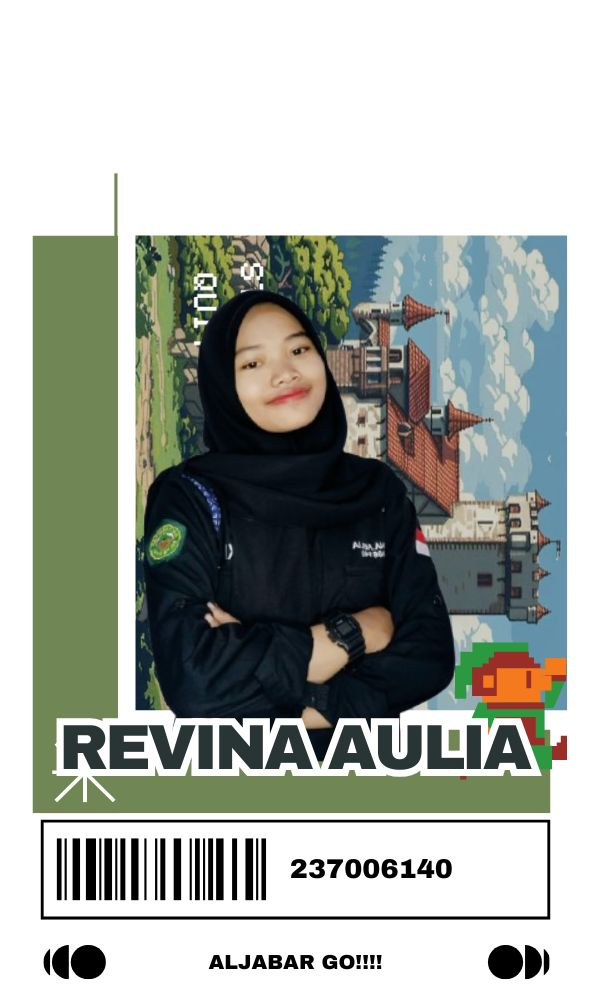
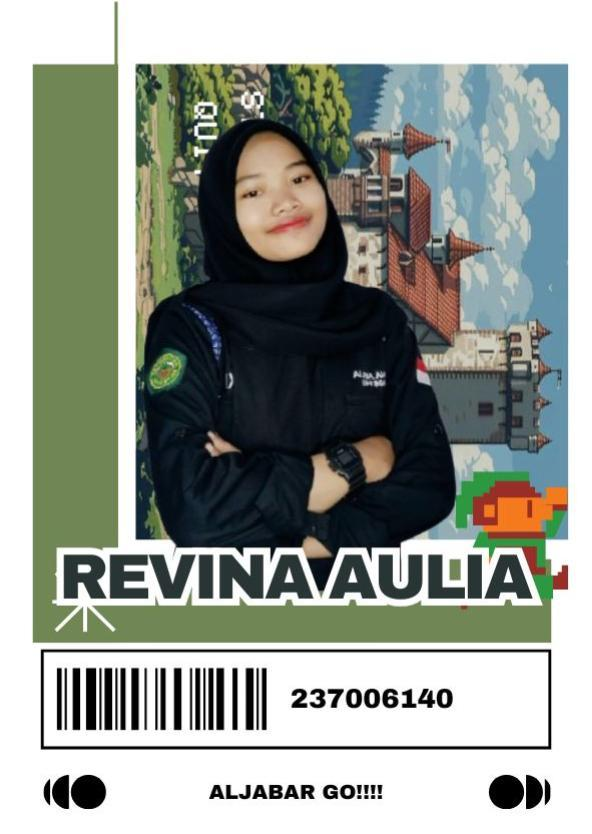
update our team, bagian dea

diff --git a/index.html b/index.html
@@ -14,6 +14,10 @@
     <link
         href="https://fonts.googleapis.com/css2?family=Roboto:ital,wght@0,100;0,300;0,400;0,500;0,700;0,900;1,100;1,300;1,400;1,500;1,700;1,900&family=Poppins:ital,wght@0,100;0,200;0,300;0,400;0,500;0,600;0,700;0,800;0,900;1,100;1,200;1,300;1,400;1,500;1,600;1,700;1,800;1,900&family=Raleway:ital,wght@0,100;0,200;0,300;0,400;0,500;0,600;0,700;0,800;0,900;1,100;1,200;1,300;1,400;1,500;1,600;1,700;1,800;1,900&display=swap"
         rel="stylesheet">
+    <!--Font Awesome CDN-->
+    <link rel="stylesheet" href="https://cdnjs.cloudflare.com/ajax/libs/font-awesome/6.5.2/css/all.min.css"
+        integrity="sha512-SnH5WK+bZxgPHs44uWIX+LLJAJ9/2PkPKZ5QiAj6Ta86w+fsb2TkcmfRyVX3pBnMFcV7oQPJkl9QevSCWr3W6A=="
+        crossorigin="anonymous" referrerpolicy="no-referrer" />
 
     <!-- Vendor CSS Files -->
     <link href="assets/vendor/bootstrap/css/bootstrap.min.css" rel="stylesheet">
@@ -24,6 +28,18 @@
 
     <!-- Main CSS File -->
     <link href="assets/css/main.css" rel="stylesheet">
+    <link rel="stylesheet" href="assets/css/team.css">
+
+    <!--Owl carousel min.css-->
+    <link rel="stylesheet" href="https://cdnjs.cloudflare.com/ajax/libs/OwlCarousel2/2.3.4/assets/owl.carousel.min.css"
+        integrity="sha512-tS3S5qG0BlhnQROyJXvNjeEM4UpMXHrQfTGmbQ1gKmelCxlSEBUaxhRBj/EFTzpbP4RVSrpEikbmdJobCvhE3g=="
+        crossorigin="anonymous" referrerpolicy="no-referrer" />
+
+    <!--owl.theme.default.min.css-->
+    <link rel="stylesheet"
+        href="https://cdnjs.cloudflare.com/ajax/libs/OwlCarousel2/2.3.4/assets/owl.theme.default.min.css"
+        integrity="sha512-sMXtMNL1zRzolHYKEujM2AqCLUR9F2C4/05cdbxjjLSRvMQIciEPCQZo++nk7go3BtSuK9kfa/s+a4f4i5pLkw=="
+        crossorigin="anonymous" referrerpolicy="no-referrer" />
 
     <!-- =======================================================
   * Template Name: Bootslander
@@ -367,11 +383,11 @@
                             <div class="card item">
 
                                 <div class="img_container">
-                                    <img src="./image/member1.jpg" alt="">
+                                    <img src="assets/img/team/T.JPG" alt="">
                                 </div>
 
                                 <div class="info">
-                                    <span class="name">Justin Laketimber</span>
+                                    <span class="name">Tirangga Kamal Baskara</span>
                                     <div class="post">Front-End Developer</div>
                                     <p class="about">Lorem ipsum dolor sit amet consectetur adipisicing elit. Dolorum
                                         fuga sequi amet vitae quam blanditiis.</p>
@@ -395,11 +411,11 @@
                             <div class="card item">
 
                                 <div class="img_container">
-                                    <img src="./image/member2.jpg" alt="">
+                                    <img src="assets/img/team/4.png" alt="">
                                 </div>
 
                                 <div class="info">
-                                    <span class="name">Justin Laketimber</span>
+                                    <span class="name">Dea Puput Rahmalia</span>
                                     <div class="post">Back-End Developer</div>
                                     <p class="about">Lorem ipsum dolor sit amet consectetur adipisicing elit. Dolorum
                                         fuga sequi amet vitae quam blanditiis.</p>
@@ -423,11 +439,11 @@
                             <div class="card item">
 
                                 <div class="img_container">
-                                    <img src="./image/member3.jpg" alt="">
+                                    <img src="assets/img/team/3.jpg" alt="">
                                 </div>
 
                                 <div class="info">
-                                    <span class="name">Justin Laketimber</span>
+                                    <span class="name">Dimas Adhitya Rahman</span>
                                     <div class="post">UI/UX Designer</div>
                                     <p class="about">Lorem ipsum dolor sit amet consectetur adipisicing elit. Dolorum
                                         fuga sequi amet vitae quam blanditiis.</p>
@@ -451,39 +467,11 @@
                             <div class="card item">
 
                                 <div class="img_container">
-                                    <img src="./image/member4.jpg" alt="">
+                                    <img src="assets/img/team/2.jpg" alt="">
                                 </div>
 
                                 <div class="info">
-                                    <span class="name">Justin Laketimber</span>
-                                    <div class="post">Front-End Developer</div>
-                                    <p class="about">Lorem ipsum dolor sit amet consectetur adipisicing elit. Dolorum
-                                        fuga sequi amet vitae quam blanditiis.</p>
-                                </div>
-
-
-                                <div class="footer">
-                                    <div class="social_icon">
-                                        <button><i class="fa-brands fa-twitter"></i></button>
-                                        <button><i class="fa-brands fa-instagram"></i></button>
-                                        <button><i class="fa-brands fa-whatsapp"></i></button>
-                                    </div>
-
-                                    <div class="btn">
-                                        <button>Read More...</button>
-                                    </div>
-                                </div>
-
-                            </div>
-
-                            <div class="card item">
-
-                                <div class="img_container">
-                                    <img src="./image/member5.jpg" alt="">
-                                </div>
-
-                                <div class="info">
-                                    <span class="name">Justin Laketimber</span>
+                                    <span class="name">Revina Aulia</span>
                                     <div class="post">Front-End Developer</div>
                                     <p class="about">Lorem ipsum dolor sit amet consectetur adipisicing elit. Dolorum
                                         fuga sequi amet vitae quam blanditiis.</p>
@@ -507,6 +495,7 @@
                         </div>
                     </div>
                 </div>
+
             </div>
 
         </section><!-- /Team Section -->
@@ -610,6 +599,17 @@
 
     </footer>
 
+
+    <!--jQuery CDN-->
+    <script src="https://cdnjs.cloudflare.com/ajax/libs/jquery/3.7.1/jquery.min.js"
+        integrity="sha512-v2CJ7UaYy4JwqLDIrZUI/4hqeoQieOmAZNXBeQyjo21dadnwR+8ZaIJVT8EE2iyI61OV8e6M8PP2/4hpQINQ/g=="
+        crossorigin="anonymous" referrerpolicy="no-referrer"></script>
+
+    <!--Owl carousel min.js-->
+    <script src="https://cdnjs.cloudflare.com/ajax/libs/OwlCarousel2/2.3.4/owl.carousel.min.js"
+        integrity="sha512-bPs7Ae6pVvhOSiIcyUClR7/q2OAsRiovw4vAkX+zJbw3ShAeeqezq50RIIcIURq7Oa20rW2n2q+fyXBNcU9lrw=="
+        crossorigin="anonymous" referrerpolicy="no-referrer"></script>
+
     <!-- Scroll Top -->
     <a href="#" id="scroll-top" class="scroll-top d-flex align-items-center justify-content-center"><i
             class="bi bi-arrow-up-short"></i></a>
@@ -626,6 +626,7 @@
     <script src="assets/vendor/swiper/swiper-bundle.min.js"></script>
 
     <!-- Main JS File -->
+    <script src="assets/js/app.js"></script>
     <script src="assets/js/main.js"></script>
 
 </body>

diff --git a/assets/css/team.css b/assets/css/team.css
@@ -1,3 +1,29 @@
+@import url("https://fonts.googleapis.com/css2?family=Poppins:ital,wght@0,100;0,200;0,300;0,400;0,500;0,600;0,700;0,800;0,900;1,100;1,200;1,300;1,400;1,500;1,600;1,700;1,800;1,900&display=swap");
+
+* {
+  margin: 0;
+  padding: 0;
+  box-sizing: border-box;
+}
+
+.header_section {
+  margin-top: 50px;
+  text-align: center;
+}
+
+.header_section h1 {
+  font-size: 60px;
+  color: #f6ae31;
+}
+
+.header_section p {
+  font-size: 18px;
+  color: #fff;
+  margin-top: 10px;
+  font-family: "Poppins", sans-serif;
+  font-weight: 300;
+}
+
 .wrapper {
   width: 100%;
   max-width: 1400px;

diff --git a/assets/js/app.js b/assets/js/app.js
@@ -1,0 +1,22 @@
+$(document).ready(function () {
+  $(".owl-carousel").owlCarousel({
+    center: true,
+    loop: true,
+    margin: 10,
+    nav: true,
+    autoplay: true,
+    autoplayHoverPause: true,
+    smartSpeed: 1500,
+    responsive: {
+      0: {
+        items: 1,
+      },
+      600: {
+        items: 1,
+      },
+      1000: {
+        items: 3,
+      },
+    },
+  });
+});
